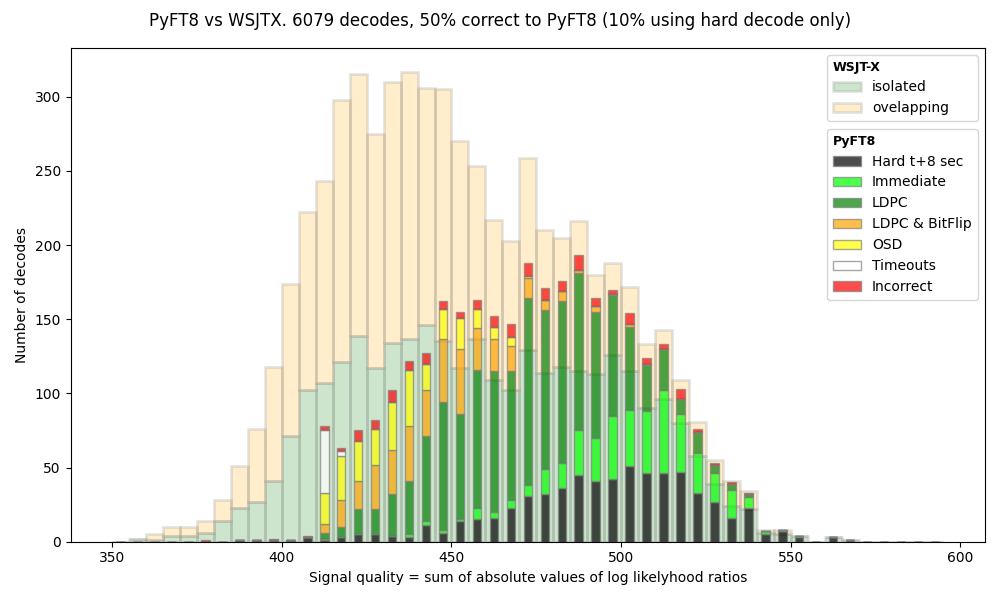
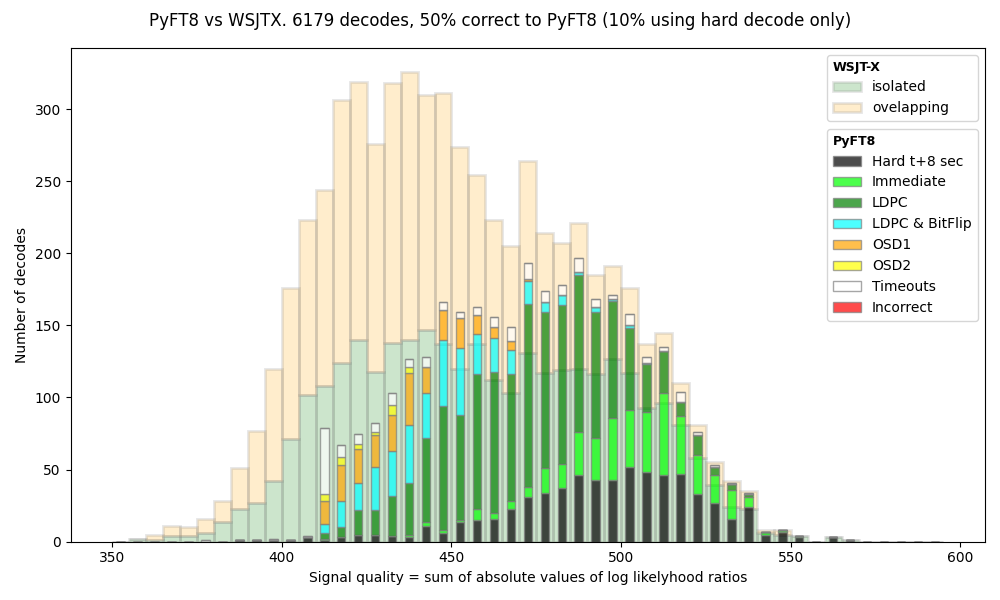
results snapshot

diff --git a/tests/test_compare_vs_wsjtx_plot.py b/tests/test_compare_vs_wsjtx_plot.py
@@ -5,11 +5,11 @@ import pandas as pd
 with open(f"data/compare_wsjtx.csv", "r") as f:
     lines=f.readlines()
 
-pycols = ['black', 'lime','green','orange','yellow','white', 'red']
-pylabs = ["Hard t+8 sec", "Immediate", "LDPC", "LDPC & BitFlip", "OSD", "Timeouts", "Incorrect"]
+pycols = ['black', 'lime','green','cyan', 'orange','yellow','white', 'red']
+pylabs = ["Hard t+8 sec", "Immediate", "LDPC", "LDPC & BitFlip", "OSD1", "OSD2", "Timeouts", "Incorrect"]
 bins = [350 + 5*b for b in range(50)]
 
-py = [[],[],[],[],[],[],[]]
+py = [[],[],[],[],[],[],[],[]]
 ws = [[],[]]
 pydecs = 0
 for lfull in lines:
@@ -24,14 +24,16 @@ for lfull in lines:
             py[0].append(q)
         elif('I00' in dpath):
             py[1].append(q)
-        elif('O00' in dpath or 'P00' in dpath or 'Q00' in dpath):
+        elif('O00' in dpath):
             py[4].append(q)
+        elif('P00' in dpath):
+            py[5].append(q)
         elif('A' in dpath):
             py[3].append(q)
         elif('L' in dpath):
             py[2].append(q)
             
-    if(not "#" in dpath): py[5].append(q)
+    if(not "#" in dpath): py[6].append(q)
     if('cofreq' in cofreq):
         ws[1].append(q)
     else:
